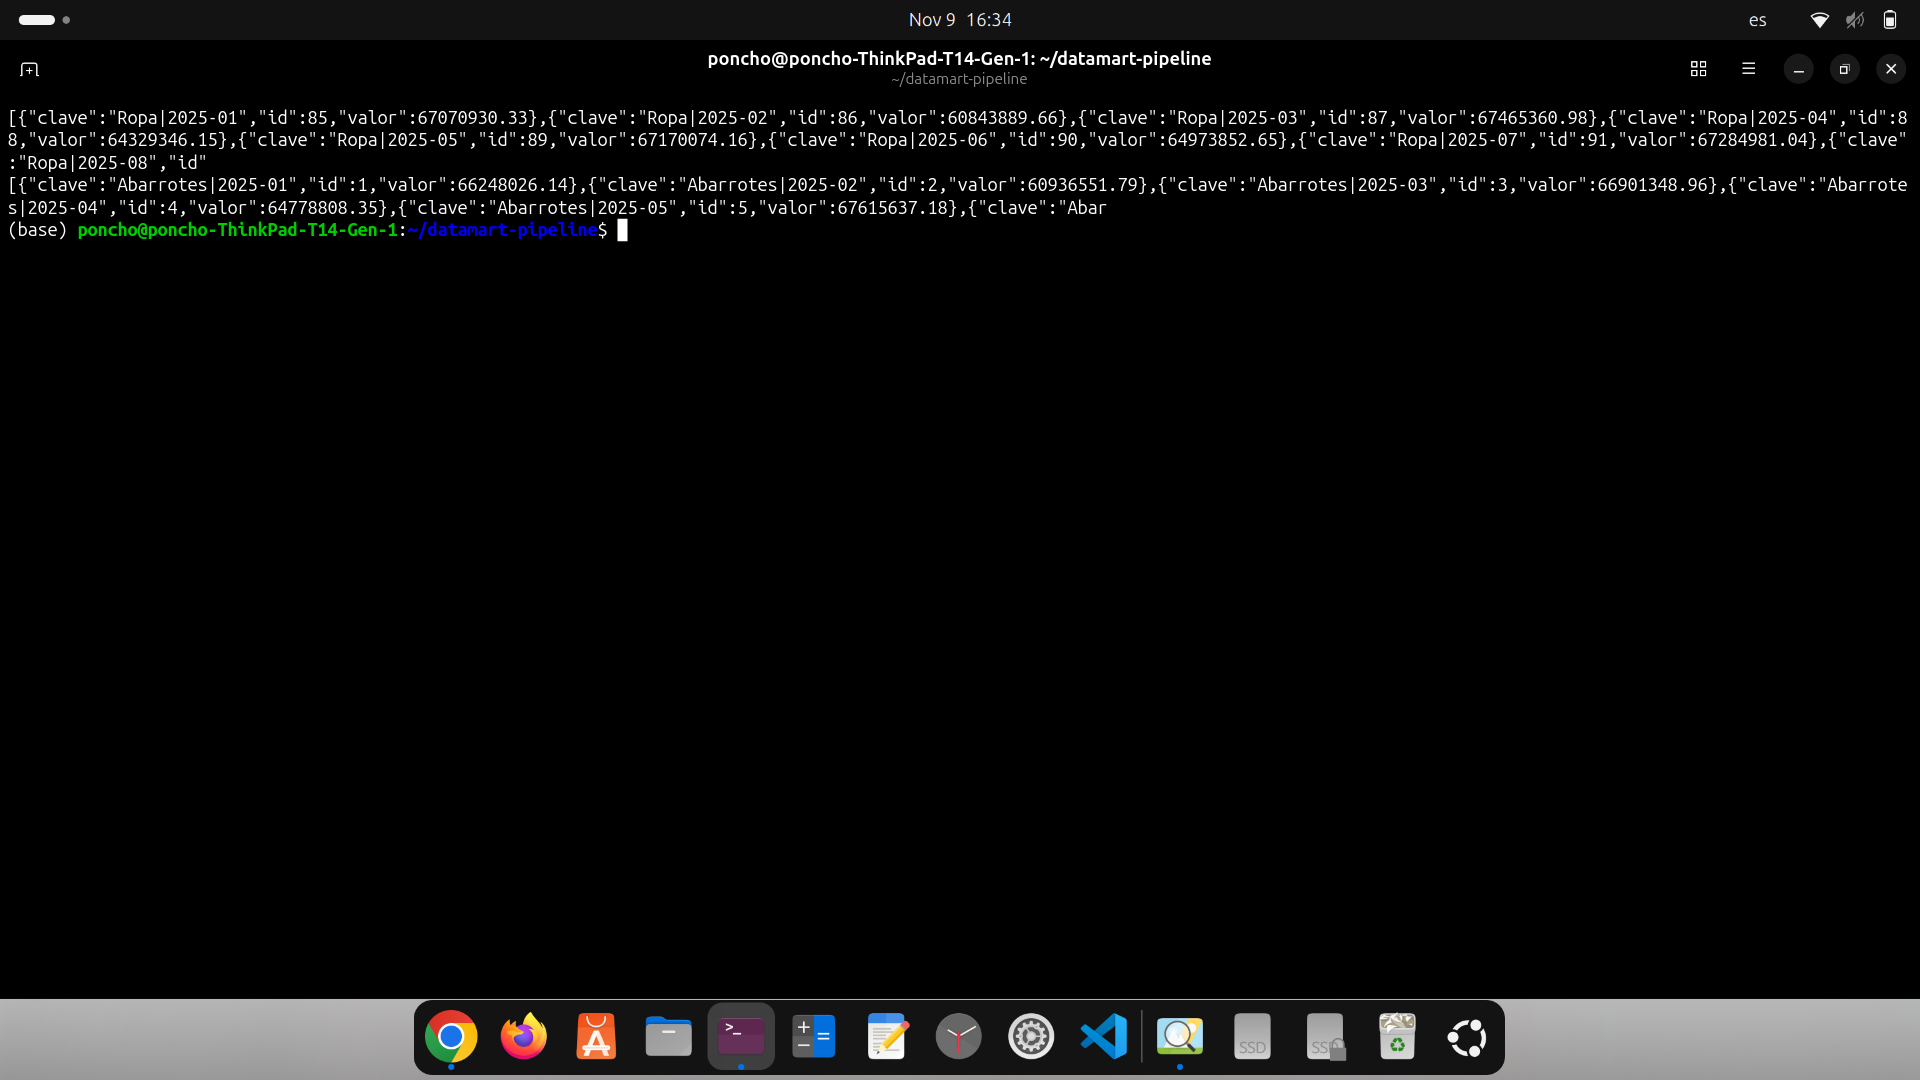
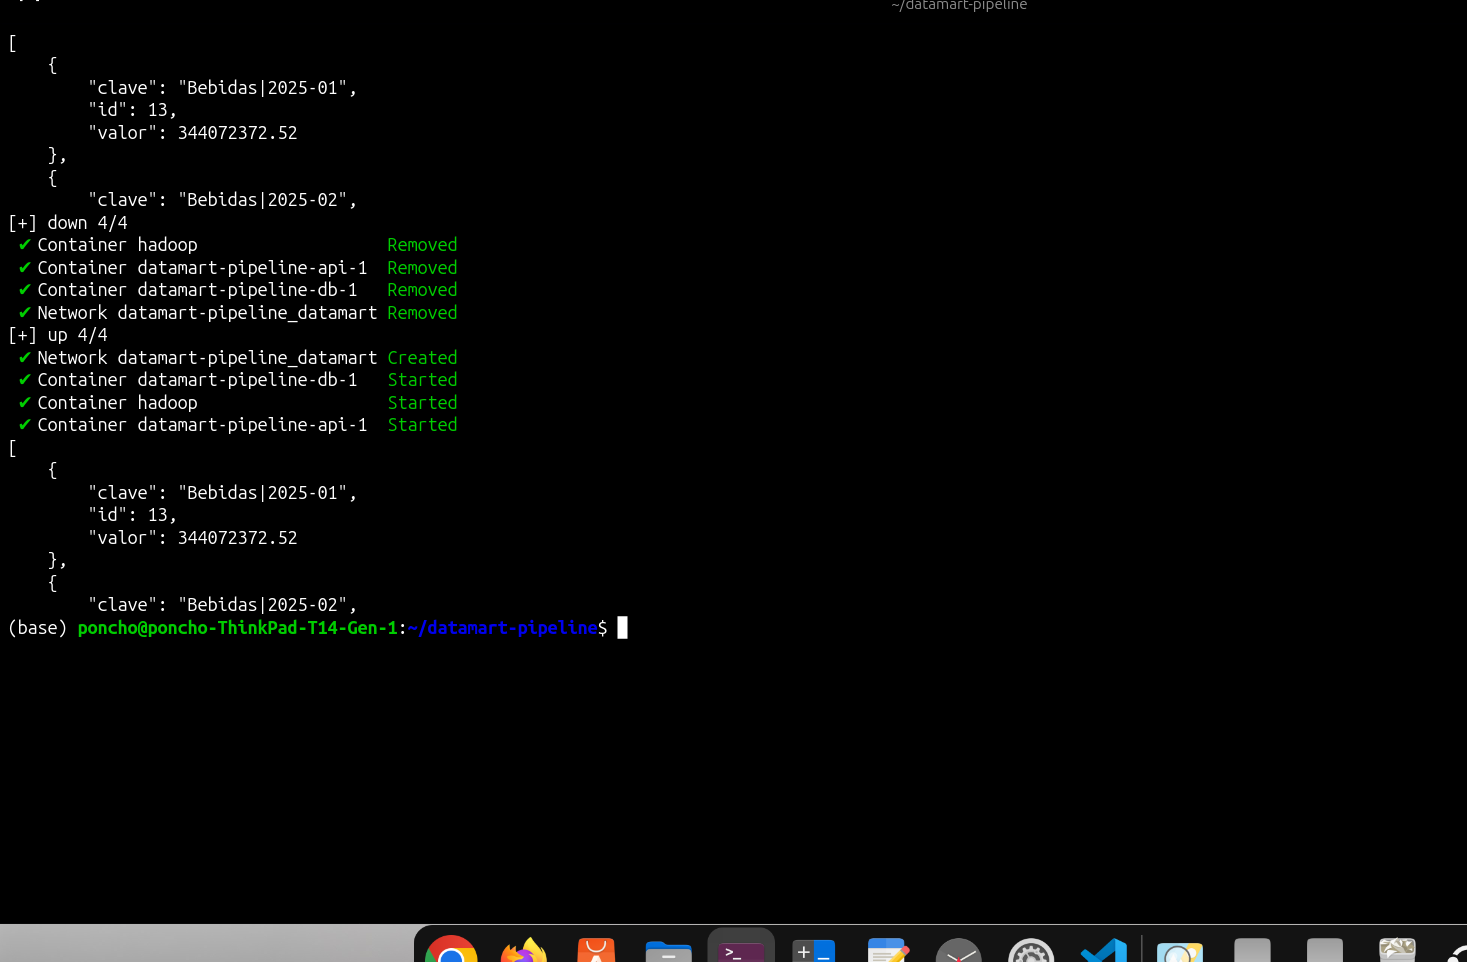
Recapturar evidencias con datos reales

diff --git a/README.md b/README.md
@@ -49,7 +49,7 @@ DB_HOST=localhost python3 cargar_resultados.py
 
 # 6. Consultar la API
 curl localhost:8000/resultados
-curl localhost:8000/resultados/Ropa
+curl localhost:8000/resultados/Bebidas
 ```
 
 Para comprobar la persistencia: `docker compose down` y luego `docker compose up -d`. Los datos siguen ahí.
@@ -67,7 +67,7 @@ Desde `api` hacia `hadoop` (con `BatchMode=yes`, que falla si pidiera contraseñ
 <img src="docs/03_ssh_api_hadoop.png" alt="ssh api a hadoop" width="700">
 
 ### C1. Salida del job MapReduce
-96 filas (8 categorías × 12 meses).
+120 filas (10 categorías × 12 meses).
 <img src="docs/04_job_mapreduce.png" alt="job" width="700">
 
 ### D. Respuesta de la API y persistencia
@@ -78,8 +78,8 @@ Desde `api` hacia `hadoop` (con `BatchMode=yes`, que falla si pidiera contraseñ
 
 | Método | Tiempo (`real`) |
 |---|---|
-| Script secuencial (Python, `csv`) | 11.96 s |
-| Hadoop Streaming (standalone) | 36.61 s |
+| Script secuencial (Python, `csv`) | TIEMPO_SECUENCIAL |
+| Hadoop Streaming (standalone) | TIEMPO_HADOOP |
 
 Ambos resultados son idénticos (`diff` sin diferencias, 96 líneas).
 
